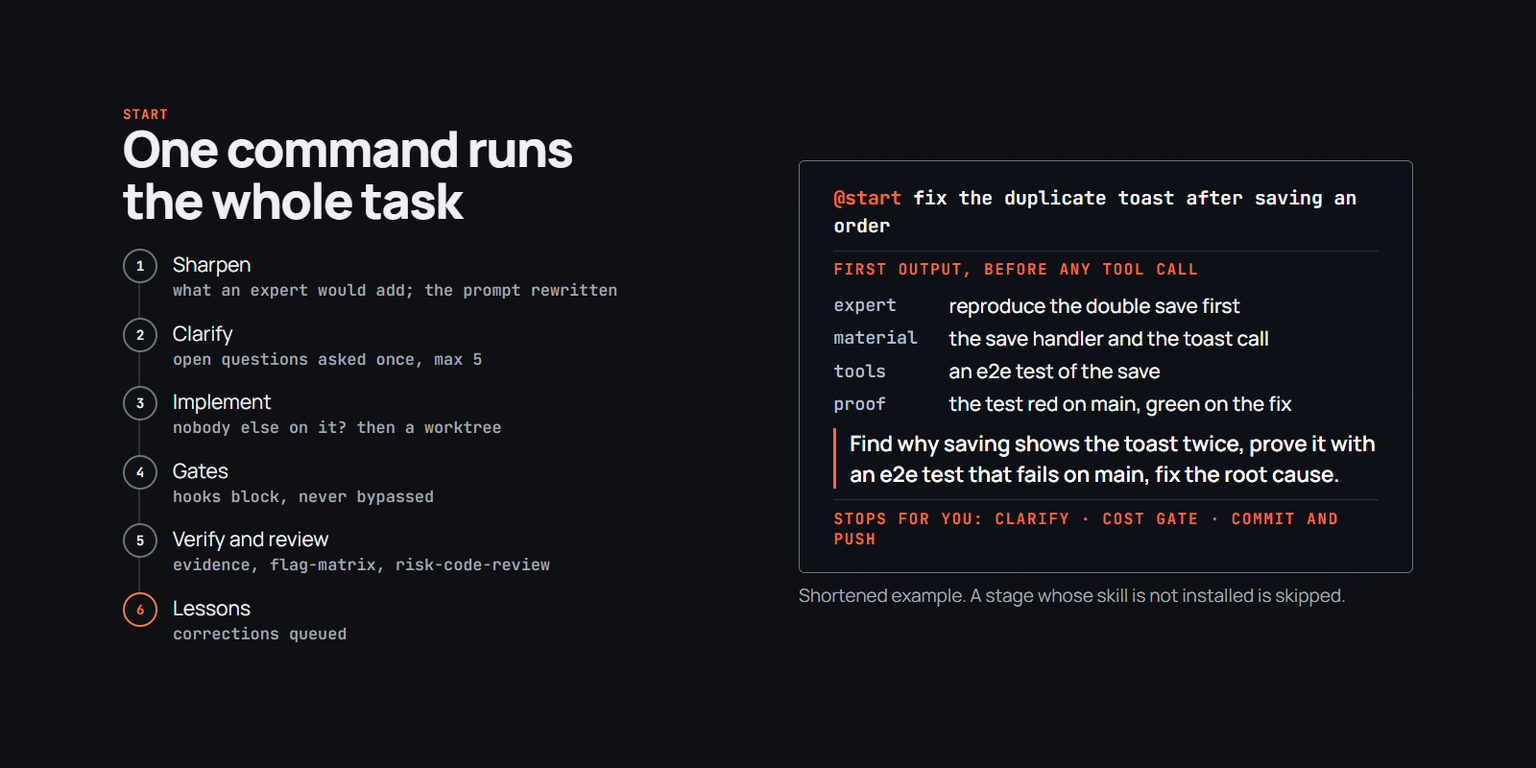
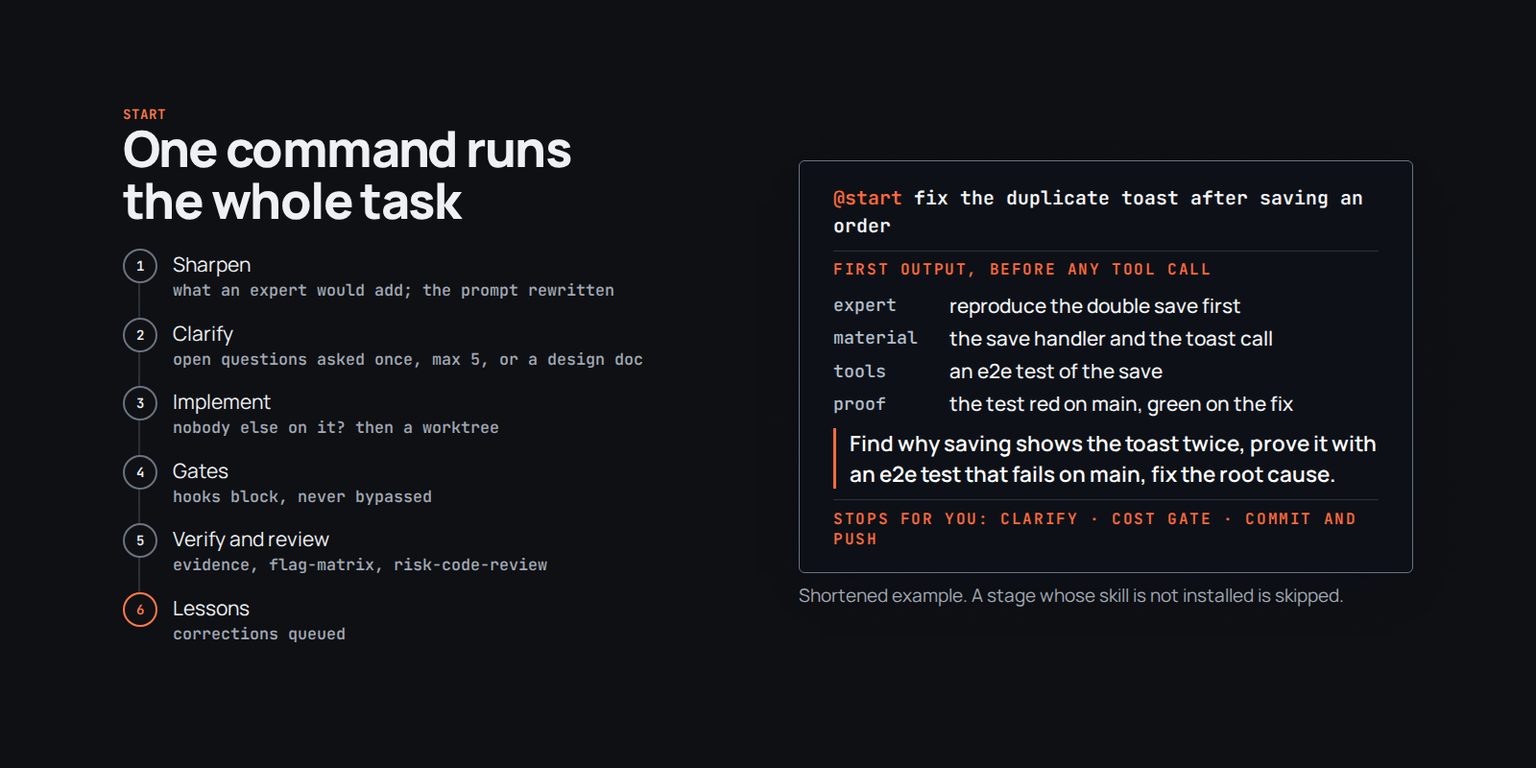
feat: add system-design skill and run it from start stage 2
New skill: grills the user one question at a time with a recommended
answer and no item cap (batch questionnaire on request), drafts a
design doc at docs/designs/<slug>.md from a 13-section template, has
it reviewed by a fresh-context reviewer from another vendor (four
lenses, max 2 rounds), and waits for acceptance. Also an interview
practice mode that scores the user against the template.

start stage 2 now hands architectural tasks (new service or data
model, cross-component change, decision costly to reverse) to
system-design, and stage 3 waits for the accepted doc. Other tasks
keep the 5-item questionnaire.

Adds a README row, a tile in the README figure, re-renders the
skills and start figures, a node test for the template, evals and the
stage 2 hook, and raises the plugin version to 0.4.0.

diff --git a/docs/figures/readme.src.html b/docs/figures/readme.src.html
@@ -362,6 +362,7 @@
       <div>
         <p class="case__trigger">Before the work</p>
         <div class="tile tile--key"><b>start</b><span>one command: sharpen, clarify, implement, gates, review</span></div>
+        <div class="tile"><b>system-design</b><span>design doc grilled, reviewed, accepted before code</span></div>
         <div class="tile"><b>worktree</b><span>own git worktree per task</span></div>
         <div class="tile"><b>verify-env</b><span>read-only doctor for the host</span></div>
       </div>
@@ -506,7 +507,7 @@
         <h2 class="slide__heading">One command runs the whole task</h2>
         <ol class="stepper">
           <li>Sharpen<small>what an expert would add; the prompt rewritten</small></li>
-          <li>Clarify<small>open questions asked once, max 5</small></li>
+          <li>Clarify<small>open questions asked once, max 5, or a design doc</small></li>
           <li>Implement<small>nobody else on it? then a worktree</small></li>
           <li>Gates<small>hooks block, never bypassed</small></li>
           <li>Verify and review<small>evidence, flag-matrix, risk-code-review</small></li>

diff --git a/skills/system-design/SKILL.md b/skills/system-design/SKILL.md
@@ -1,0 +1,66 @@
+---
+name: system-design
+description: "Designs a system or an architectural change before any code: grills the user one question at a time with a recommended answer, drafts a design doc at docs/designs/<slug>.md from a fixed template, has it reviewed by a fresh reviewer from another vendor, and waits for the user to accept it. Use when the task adds a service, a data model or a cross-component change, or makes a decision costly to reverse; when the user asks for a system design, design doc or architecture; and when `start` stage 2 finds an architectural task. Also runs interview practice: plays the interviewer and scores the user's design against the template."
+---
+
+# system-design
+
+Three phases, in order: **Grill**, **Draft**, **Review**, then the user's **acceptance**. No implementation starts before acceptance. Interview practice is a separate mode (below).
+
+## The template
+
+Every phase works against these sections; their order is the order of the doc.
+
+1. **Goal and non-goals**: the outcome, and the scope written as negation (what this design will not do).
+2. **Requirements**: functional (what users and callers can do) and non-functional (SLO for latency and availability, scale, durability, cost ceiling).
+3. **Capacity estimates**: requests per second (average and peak), storage per year, bandwidth, with the arithmetic shown and each input named as given or assumed.
+4. **API**: each endpoint or message, with inputs, outputs, errors and idempotency.
+5. **Data model and ownership**: entities, keys, indexes, which component owns and writes each one, retention.
+6. **High-level architecture**: a mermaid diagram of components and data flow, plus one line per component.
+7. **Deep dives**: the 2 or 3 riskiest parts (picked by blast radius times uncertainty), each with the mechanism, the numbers, and what breaks first under load.
+8. **Trade-offs and rejected alternatives**: each alternative, why it lost, and what would make it win.
+9. **Failure modes and recovery**: per component and dependency, what fails, how it is detected, the blast radius, and the recovery (retry, fallback, replay, restore), with RPO and RTO where data is at stake.
+10. **Security**: authentication, authorization, trust boundaries with input validation, secrets, data at rest and in transit, abuse and rate limits.
+11. **Rollout and migration**: phases, feature flags, backfill, dual writes or reads, rollback at each phase.
+12. **Verification plan and definition of done**: the tests, load tests, metrics and alerts that prove each requirement, each tied to a section above.
+13. **Open questions**: what is still undecided, with an owner.
+
+A section is **settled** when it holds an answer from the user, a fact from the code (cited as `file:line`), or an **assumption** labelled `Assumption:` with the value used. "Not applicable" is a settled answer when it carries one line of why.
+
+## Phase 1: Grill
+
+Walk the design tree with the `grilling` skill [not installed: the same method, by hand], with these rules taking precedence over its defaults:
+
+- **One question at a time**, each with your recommended answer and its reason; wait for the answer before the next question. Pick the next question from the decisions whose prerequisites are settled, highest consequence first: scale and SLO before storage, storage before API details.
+- **No item cap.** The tree is as deep as the design needs.
+- **Facts come from the code, not the user.** Before asking, look: existing services, schemas, configs, traffic dashboards in the repo, prior docs in `docs/designs/` and ADRs. A question the code answers is answered, with the `file:line`, and never asked. Decisions (scope, trade-offs, SLOs, budget) stay the user's.
+- **Batch mode**, only when the user asks for it (async, "send all questions at once"): one coded questionnaire `Q1..Qn` covering every open question whose prerequisites are settled, each with a recommended answer; the user replies by code. Repeat for the questions the answers unblocked.
+- A user who says "use your recommendation" or "skip" settles that question as an assumption.
+
+Phase 1 is done when every section of the template is settled. List the sections and how each was settled (user, code, assumption) before drafting.
+
+## Phase 2: Draft
+
+1. Write `docs/designs/<slug>.md` (`<slug>`: kebab-case of the system or change). The repo already keeps design docs elsewhere: use that place and its format, and name the difference to the user. Header: title, date, status `draft`, author (the model), reviewer (filled in Phase 3).
+2. Fill the template section by section, in order. Each claim traces to a Phase 1 answer, a cited fact or a labelled assumption; a new decision found while drafting goes back to Phase 1 as one question.
+3. Capacity numbers are calculated, not guessed: show the formula and the result, and round only at the end.
+4. Deep dives pick the 2 or 3 parts where a wrong choice costs the most to undo; name why each was picked.
+5. **ADR** only for a decision that is hard to reverse, surprising without context, and the outcome of a real trade-off: a short file in the repo's ADR folder [none: `docs/adr/NNNN-<slug>.md`] with context, decision, consequences, linked from the doc. Every other decision lives in the doc only.
+
+Phase 2 is done when all 13 sections are filled and the mermaid block is valid syntax.
+
+## Phase 3: Review
+
+1. Pick the reviewer: a model from a different vendor than the author (a Claude author gets a Codex/GPT reviewer, a Codex/GPT author gets a Claude reviewer), run headless and read-only, with **fresh context**: it gets the doc path, the repo and the brief in [`references/review-brief.md`](references/review-brief.md), never this conversation. No other vendor can run: a fresh subagent of the same vendor, and the doc header says so.
+2. The reviewer checks four lenses (completeness, YAGNI, failure modes, implementation readiness) and rates each finding `blocker`, `major` or `minor`.
+3. Verify each `blocker` and `major` yourself against the doc and the code. A finding that holds goes back: a missing decision to Phase 1 as a question, a gap in the text to Phase 2. A finding that does not hold gets one line of why in the review log. `minor` findings go to Open questions or are fixed in place.
+4. Round 2 runs on the revised doc with a new fresh reviewer. There is no round 3: findings still open after round 2 go to the user, listed.
+5. Append a review log to the doc: per round, the reviewer model, each finding, its severity and what was done.
+
+## Acceptance
+
+Show the user the doc path, the settled-by table, the assumptions, the open findings and the ADRs. The user accepts, or answers with changes (back to the phase they touch). On acceptance set the status to `accepted` with the date. Implementation, including `start` stage 3, begins only after this.
+
+## Interview practice
+
+When the user asks to practise a system design interview: follow [`references/interview.md`](references/interview.md). It plays the interviewer, never writes `docs/designs/` unless asked, and ends with a score against the template.

diff --git a/skills/start/SKILL.md b/skills/start/SKILL.md
@@ -1,6 +1,6 @@
 ---
 name: start
-description: "Use when the user types `@start <task>` (or `@start setup`). Runs the whole pipeline from one command by composing other skills: sharpen, clarify (grilling), implement (worktree, conduct), gates, verify and review (flag-matrix, risk-code-review), lessons (promote-lessons). On first use it asks once for the team (conductor, worker, reviewer models) and a default strategy, and saves them in the user's roster file."
+description: "Use when the user types `@start <task>` (or `@start setup`). Runs the whole pipeline from one command by composing other skills: sharpen, clarify (grilling, or system-design for an architectural task), implement (worktree, conduct), gates, verify and review (flag-matrix, risk-code-review), lessons (promote-lessons). On first use it asks once for the team (conductor, worker, reviewer models) and a default strategy, and saves them in the user's roster file."
 ---
 
 # @start pipeline
@@ -59,12 +59,12 @@ A task can override the default: `@start --fan-out <task>`, `@start --consensus 
 ## Stages
 
 1. **Sharpen** (do it yourself; never skip, even when a later stage is blocked; the one exception is `@start setup` with no task): before any tool call, print 4 one-line answers: what a top expert would do here that the user did not ask for; the rawest material they would start from; their tools and methods beyond reasoning; what outside the model shows the result is right (for a bug: everything the reporter sees in their repro, each an assertion with the expected value from the reporter's material or the live system, not from the code). Then the user's prompt rewritten to ask for exactly that.
-2. **Clarify.** Open architecture or product questions, or additions that grow scope: run `grilling` as one coded questionnaire (Q1, O1; max 5 items) and wait for the short answer. Strategy consensus: put each open decision to the panel first (consensus rules above) and bring the user what those rules send to the user. Nothing open: go on without asking. Fallback: ask the same questionnaire yourself.
+2. **Clarify.** Architectural task (it adds a service or a data model, changes how components talk to each other, or makes a decision costly to reverse; unsure: ask that as Q1): run `system-design` [the questionnaire below, with no item cap], and stage 3 starts only after the user accepts its design doc. Other open architecture or product questions, or additions that grow scope: run `grilling` as one coded questionnaire (Q1, O1; max 5 items) and wait for the short answer. Strategy consensus: put each open decision to the panel first (consensus rules above) and bring the user what those rules send to the user. Nothing open: go on without asking. Fallback: ask the same questionnaire yourself.
 3. **Implement.** First check nobody else is on it: `git fetch --all --prune`, then `git log --remotes --grep <ticket>`, `git branch -r --list "*<ticket>*"` and `gh pr list --state all --search <ticket>` (again before opening the PR). No ticket key: the same three searches with two or three distinctive words from the task. Someone else's branch, PR or merge: stop and report, never build a parallel fix. Then `worktree` [`git worktree add` outside the checkout, work in it by absolute path], then `conduct` with the team and strategy from stage 0: the worker writes, the conductor briefs, dispatches and adjudicates. Tell `conduct` the team in the brief; it takes precedence over conduct's own routing table. Strategy consensus: hand `conduct` the stage 2 decision record as the prior decision, so its Opinion stage does not ask the same question again. Fallback without `conduct`: dispatch the worker yourself with a brief file and review its diff; never let the reviewer be the worker's vendor. Trivial single-file edit (under ~30 lines): the fast path below.
 4. **Gates.** Hooks (guard rules, spec gates, proof gates) run on their own; a block is reported, never routed around.
 5. **Verify and review.** `superpowers:verification-before-completion` [run the build and tests and show their output] before claiming done. UI change: a committed e2e spec and a before/after film. Stubs of external APIs copy real recorded responses, redacted. A "known limit" or "needs backend" is reported only with a probe of the provider's alternative endpoints and its numbers; otherwise it is an open bug. A changed file the project's flag catalog lists as a reader of a flag or config setting: run `flag-matrix` [list each flag value and check the change under it by hand, or say it was not checked]. Work back from QA: a bug fix also fixes the harness that let it through. Then `risk-code-review` on the final tree with the team's reviewer [without the skill: the roster's tier table, if it has one, sets the depth; otherwise a fresh subagent and the team's reviewer each review the diff against the ticket; the hand-off lists their findings]: tier, door, P0 / Proof, fix rounds and the PR body section live there.
 6. **Lessons.** `promote-lessons` [nothing to run] runs as a periodic curation pass, not per task; at hand-off, name any correction the user gave during the run so the queue holds it.
 
-Stops that stay: the stage 0 and stage 2 answers when those stages ask, a cost gate before any paid batch run, approval to commit or push.
+Stops that stay: the stage 0 and stage 2 answers when those stages ask, acceptance of a stage 2 design doc, a cost gate before any paid batch run, approval to commit or push.
 
 Fast path: a trivial single-file edit (under ~30 lines) skips stage 2 and stage 3's `conduct`, so conduct's never-implement rule does not apply: the driving session writes it directly. A task run with `--consensus` or `--fan-out` never takes the fast path. Stage 5 still runs.

diff --git a/skills/system-design/README.md b/skills/system-design/README.md
@@ -1,0 +1,68 @@
+# system-design
+
+**Designs before it builds: grills you one question at a time, writes a design doc from a fixed 13-section template, has it reviewed by a fresh model from another vendor, and waits for your acceptance before any code. Also runs system design interview practice with a score.**
+
+> Ideas, not text, from: [`grilling`](https://github.com/mattpocock/skills) (mattpocock, MIT: the design tree, a recommended answer per question, facts looked up rather than asked, the three-part ADR test); [elephant-goldfish-model](https://github.com/google/elephant-goldfish-model) (Google, Apache-2.0: draft section by section, review by zero-context reviewers, a capped number of re-reviews); [system_design_skill](https://github.com/codeMaestro78/system_design_skill) (codeMaestro78, MIT: the section list, labelled assumptions, interview mode with a hint ladder); [architecture-design-skill](https://github.com/binodta/architecture-design-skill) (binodta, CC BY 4.0: scope written as negation, the verification plan). No text is copied from any of them.
+
+```
+design a URL shortener for 100M URLs/day
+```
+
+| | |
+| --- | --- |
+| **Fires** | a new service, data model or cross-component change, a decision costly to reverse, a request for a design doc; also from [`start`](../start/README.md) stage 2 on an architectural task |
+| **Asks** | one question at a time, each with a recommended answer, no cap; batch mode (`Q1..Qn`) when you ask for it |
+| **Never asks** | what the code already answers: those come with `file:line` |
+| **Writes** | `docs/designs/<slug>.md`, plus a short ADR only for a decision that is hard to reverse, surprising and a real trade-off |
+| **Review** | a fresh-context reviewer from another vendor (Codex for a Claude author, Claude for a Codex author), 4 lenses, max 2 rounds |
+| **Stops for you** | each question, and acceptance of the doc; no implementation before it |
+
+## Why
+
+A short questionnaire is enough for a bug fix and too thin for a new service: the questions that matter (scale, SLO, who owns which data, what happens when a dependency fails) come in a chain, each depending on the last. Walking that chain one decision at a time, then letting a reviewer who never saw the conversation read the doc, catches the gaps the author can no longer see.
+
+## How it works
+
+```mermaid
+flowchart TD
+  IN(["architectural task"]) --> G["<b>1 · Grill</b><br/>one question at a time,<br/>recommended answer,<br/>facts from the code"]
+  G --> C{"every template<br/>section settled?"}
+  C -- no --> G
+  C -- yes --> D["<b>2 · Draft</b><br/>docs/designs/&lt;slug&gt;.md<br/>13 sections, mermaid,<br/>ADR if irreversible"]
+  D --> R["<b>3 · Review</b><br/>fresh reviewer,<br/>other vendor, 4 lenses"]
+  R --> F{"blocker or major<br/>that holds?"}
+  F -- "yes, round 1" --> G
+  F -- "no, or after round 2" --> A(["<b>Acceptance</b><br/>you accept; then code"])
+
+  classDef io fill:#f97316,stroke:#c2410c,color:#fff
+  classDef step fill:#fff7ed,stroke:#f97316,color:#431407
+  classDef ask fill:#ffffff,stroke:#f97316,color:#431407
+  class IN,A io
+  class G,D,R step
+  class C,F ask
+```
+
+The template: goal and non-goals, requirements (functional, non-functional with SLO and scale), capacity estimates, API, data model and ownership, high-level architecture, deep dives on the 2 or 3 riskiest parts, trade-offs and rejected alternatives, failure modes and recovery, security, rollout and migration, verification plan and definition of done, open questions. A section is settled by your answer, a fact cited from the code, or a labelled assumption.
+
+The review lenses: completeness, YAGNI, failure modes, implementation readiness. Each finding is a blocker, major or minor; the author verifies blockers and majors before acting on them, and what is still open after round 2 goes to you.
+
+**Interview practice:** say "let's practise a system design interview". The skill plays the interviewer (one question per turn, no hints unless you ask), then scores each section it reached from 0 to 3 with quoted evidence, names your three costliest gaps, and gives a model answer outline.
+
+## Install
+
+```bash
+git clone https://github.com/MarcinSufa/skills
+cp -r skills/skills/system-design ~/.claude/skills/
+```
+
+Works alone in Claude Code or Codex. With `grilling` installed it drives the questions through it; without, it runs the same method itself. The review step needs a second vendor's CLI (`codex` or `claude`); without one it uses a fresh subagent and says so in the doc.
+
+## Files
+
+| File | For |
+| --- | --- |
+| [`SKILL.md`](SKILL.md) | the agent: template, the three phases, acceptance |
+| [`references/review-brief.md`](references/review-brief.md) | the reviewer's brief and read-only commands |
+| [`references/interview.md`](references/interview.md) | interview practice: flow, hints, scoring |
+| [`evals/evals.json`](evals/evals.json) | test prompts with expectations, in the skill-creator format |
+| `README.md` | you |

diff --git a/skills/start/README.md b/skills/start/README.md
@@ -9,7 +9,7 @@
   </picture>
 </p>
 
-> A pipeline made of other skills: [`grilling`](https://github.com/mattpocock/skills) (mattpocock, MIT), [`worktree`](../worktree/README.md), [`conduct`](../conduct/README.md), [`flag-matrix`](../flag-matrix/README.md), [`risk-code-review`](../risk-code-review/README.md), [`promote-lessons`](../promote-lessons/README.md) and `superpowers:verification-before-completion` ([obra/superpowers](https://github.com/obra/superpowers)). A stage whose skill is missing runs a simpler fallback and says so.
+> A pipeline made of other skills: [`grilling`](https://github.com/mattpocock/skills) (mattpocock, MIT), [`system-design`](../system-design/README.md), [`worktree`](../worktree/README.md), [`conduct`](../conduct/README.md), [`flag-matrix`](../flag-matrix/README.md), [`risk-code-review`](../risk-code-review/README.md), [`promote-lessons`](../promote-lessons/README.md) and `superpowers:verification-before-completion` ([obra/superpowers](https://github.com/obra/superpowers)). A stage whose skill is missing runs a simpler fallback and says so.
 
 ```
 @start fix the duplicate toast after saving an order
@@ -21,7 +21,7 @@
 | **First use** | asks once for conductor, worker and reviewer models (from the CLIs it finds) and a default strategy, saved in your roster file; `@start setup` asks again |
 | **Strategies** | solo, fan-out (parallel workers), consensus (three models, two rounds, then the conductor decides), review (an existing PR by risk tier) |
 | **First output** | four one-line answers and your prompt rewritten, before any tool call (the team setup comes right after) |
-| **Stops for you** | the setup and clarify answers, a cost gate, and approval to commit or push |
+| **Stops for you** | the setup and clarify answers, acceptance of a design doc on an architectural task, a cost gate, and approval to commit or push |
 | **Never** | builds a parallel fix when someone else's branch or PR already covers the ticket, or routes around a blocking hook |
 
 ## Why
@@ -37,7 +37,7 @@ flowchart TD
   S0 -- no --> T["detect CLIs, ask once:<br/>conductor, worker,<br/>reviewer, strategy"]
   T --> S2
   S0 -- yes --> S2{"<b>2 · Clarify</b><br/>open questions?"}
-  S2 -- yes --> Q["One coded questionnaire,<br/>max 5 items, wait"]
+  S2 -- yes --> Q["One coded questionnaire,<br/>max 5 items, wait;<br/>architectural: system-design,<br/>doc accepted first"]
   Q --> S3
   S2 -- no --> S3["<b>3 · Implement</b><br/>check nobody else is on it,<br/>worktree, worker + reviewer"]
   S3 --> S4["<b>4 · Gates</b><br/>hooks block, never bypassed"]
@@ -54,7 +54,7 @@ flowchart TD
 
 - **1 · Sharpen.** Four answers: what a top expert would add, the rawest material they would start from, their tools beyond reasoning, and what outside the model shows the result is right. For a bug, each thing the reporter saw becomes an assertion with its expected value from the reporter's material, not from the code.
 - **0 · Team and strategy** (right after sharpen's first output). Read once from the roster file your `CLAUDE.md` points to (the one `risk-code-review` reads). Missing: the skill checks which of `claude`, `codex`, `gemini`, `grok`, `cursor-agent` run, asks you to pick the conductor, worker, reviewer and default strategy, and writes a `## Team and strategy` table there. A task can override the strategy with `--fan-out`, `--consensus` or `--review`.
-- **2 · Clarify.** Open architecture or product questions, or scope growth, go into one coded questionnaire through the `grilling` skill. Nothing open: no question.
+- **2 · Clarify.** An architectural task (a new service or data model, a change across components, a decision costly to reverse) runs [`system-design`](../system-design/README.md): questions one at a time, a reviewed design doc, and stage 3 waits until you accept it. Other open architecture or product questions, or scope growth, go into one coded questionnaire through the `grilling` skill. Nothing open: no question.
 - **3 · Implement.** First `git fetch`, then search every remote's commit messages, branch names and PRs for the ticket; someone else's work stops the run. Substantive work goes to `worktree` and `conduct` with your team: the worker writes, the conductor briefs and adjudicates, and the reviewer is never the worker's vendor. A trivial single-file edit is written directly.
 - **4 · Gates.** Hooks run on their own; a block is reported.
 - **5 · Verify and review.** Verification before claiming done. A UI change gets a committed e2e spec and a before/after film. Stubs of external APIs copy recorded responses, redacted. Code that reads a config flag gets a flag x moment matrix. Then `risk-code-review` on the final tree.

diff --git a/skills/system-design/references/interview.md b/skills/system-design/references/interview.md
@@ -1,0 +1,36 @@
+# Interview practice
+
+You are the interviewer in a system design interview; the user is the candidate. The goal is practice with honest feedback, so you hold back answers until the debrief.
+
+## Setup
+
+Ask once: the prompt (offer three, e.g. a URL shortener, a chat service, a rate limiter, or the user's own), the level (mid, senior, staff) and the time box (default 45 minutes). Then state the prompt in one or two sentences, as vague as a real interviewer would.
+
+## Interview
+
+- **One question per turn**, no recommended answer. Follow the order of a real interview: requirements and scope, scale and capacity, API, data model, high-level architecture, a deep dive you pick from the candidate's weakest or riskiest part, failure modes, then trade-offs.
+- Answer clarifying questions the way an interviewer would: give numbers when asked (users, read/write ratio, latency target), and say "your call" for real design choices.
+- Push back once per decision with a concrete stressor ("traffic goes 10x on one key", "the primary region is down"). Raise difficulty after strong, quick answers; lower it after two stalled attempts.
+- **Hints only when asked**, in three rungs: a nudge to the area, a pointed question, then the concept by name. Count them for the debrief.
+- Keep time: at the time box, or when the candidate says done, stop and debrief.
+
+## Debrief
+
+Score each template section from [`../SKILL.md`](../SKILL.md#the-template) that the interview reached:
+
+| Score | Meaning |
+| --- | --- |
+| 3 | covered, with numbers or mechanism, and the trade-off named unprompted |
+| 2 | covered, but shallow or only after a push |
+| 1 | touched, with a wrong claim or a missing core part |
+| 0 | not covered |
+
+Sections the interview never reached are "not assessed", not 0. For each score give one line of evidence quoted from the candidate's answers. Then:
+
+1. Overall: hire signal for the stated level (strong yes, yes, lean no, no), with the two reasons that weigh most.
+2. The three gaps that cost the most, each with what a strong answer would have said.
+3. Hints used, and where.
+4. A model answer outline for the prompt, one line per section.
+5. One drill for next time.
+
+Write the debrief to a file only when the user asks.

diff --git a/skills/system-design/references/review-brief.md b/skills/system-design/references/review-brief.md
@@ -1,0 +1,22 @@
+# Review brief (Phase 3)
+
+Send this to the reviewer with the doc path filled in. The reviewer gets nothing else from the design conversation.
+
+```text
+You are reviewing a design doc you have never seen, for a system you know only from the doc and the repository. Read <doc path> and any code it cites. Do not edit files.
+
+Check four lenses:
+1. Completeness: each of the 13 template sections is present and settled (an answer, a cited fact, or a labelled Assumption). Each non-functional requirement has a number. The capacity arithmetic is right.
+2. YAGNI: a component, phase or abstraction that no stated requirement needs.
+3. Failure modes: a component or dependency whose failure, detection or recovery is missing, a data path without RPO and RTO, a retry without idempotency, a single point of failure the doc does not name.
+4. Implementation readiness: could an engineer start building from this doc alone? Name each place they would have to stop and ask, and each claim about the existing code that the code contradicts.
+
+For each finding give: lens, severity (blocker: the design is wrong or cannot be built as written; major: a gap that will cost rework if built now; minor: wording or polish), the section, the evidence (doc quote or file:line), and the smallest change that fixes it. No finding is allowed without evidence. If you find nothing above minor, say so plainly.
+```
+
+Commands, read-only, prompt in a file:
+
+- Claude author, Codex reviewer: `codex exec --sandbox read-only "$(cat brief.txt)"`
+- Codex author, Claude reviewer: `claude -p --permission-mode plan "$(cat brief.txt)"`
+
+Use the model the user's roster names for the reviewer role when there is one.

diff --git a/README.md b/README.md
@@ -3,7 +3,7 @@
 <p align="center">
   <picture>
     <source media="(prefers-color-scheme: dark)" srcset="docs/assets/skills-dark.png">
-    <img alt="Agent skills that make the agent check its own work. Before the work: start, worktree, verify-env. While it works: supply-chain-guard, bigfile-guard, i-have-adhd, conduct, docs-vs-code-precedence. Before the merge: risk-code-review, flag-matrix, explain-gate. After the merge: promote-lessons." src="docs/assets/skills-light.png" width="880">
+    <img alt="Agent skills that make the agent check its own work. Before the work: start, system-design, worktree, verify-env. While it works: supply-chain-guard, bigfile-guard, i-have-adhd, conduct, docs-vs-code-precedence. Before the merge: risk-code-review, flag-matrix, explain-gate. After the merge: promote-lessons." src="docs/assets/skills-light.png" width="880">
   </picture>
 </p>
 
@@ -20,6 +20,7 @@ Agent skills for Claude Code (they also work in other agents that read `SKILL.md
 | Skill | What it does | Upstream |
 | --- | --- | --- |
 | [start](skills/start/README.md) | `@start <task>` pipeline: sharpen, clarify, implement, gates, review, lessons | own |
+| [system-design](skills/system-design/README.md) | Grills you one question at a time, writes a design doc, has another vendor review it, and waits for your acceptance; also interview practice | own; ideas from mattpocock, google, codeMaestro78, binodta (credited in its README) |
 | [worktree](skills/worktree/README.md) | Own git worktree per substantive task, with keep or remove rules | own |
 | [verify-env](skills/verify-env/README.md) | Read-only doctor for the host and session before a long run | own |
 
